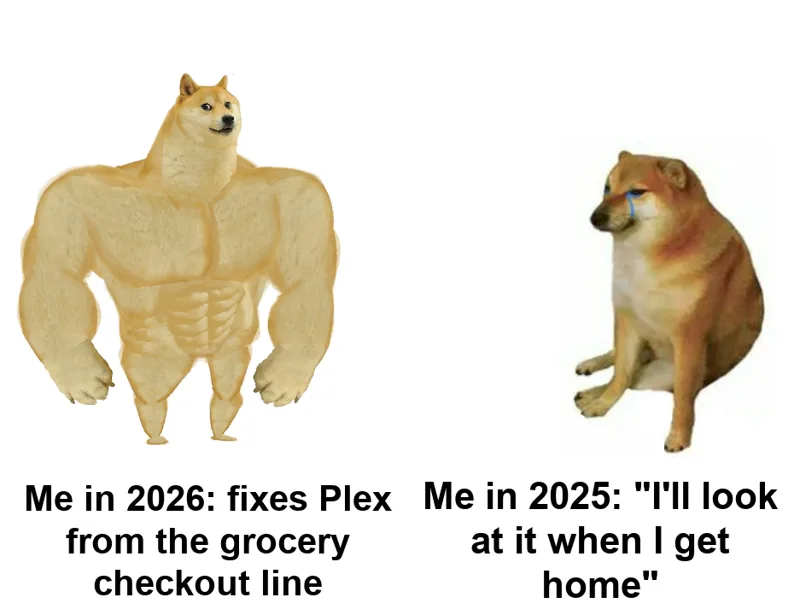
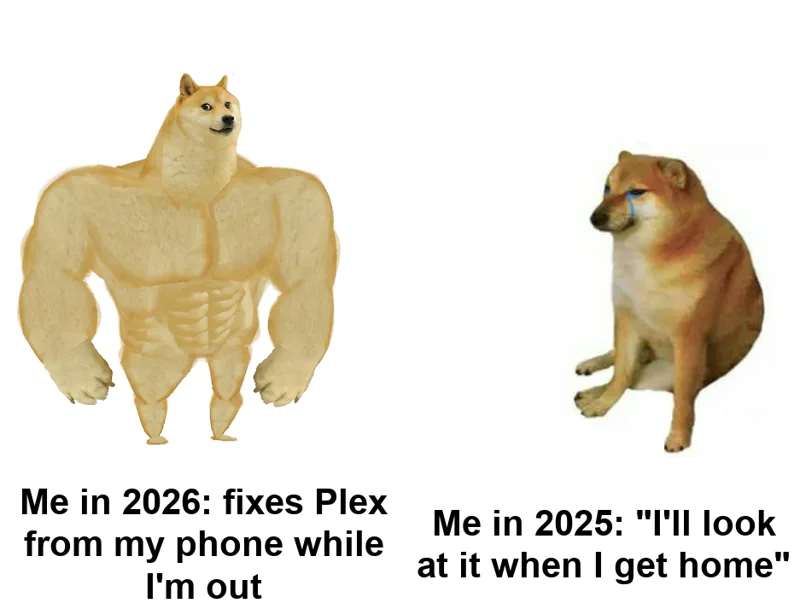
fix: Add evaluation notes and fix meme captions in dev setup post

Changed region(s): [[0.5, 0.7724, 1.0, 0.9886], [0.0, 0.7724, 0.5, 0.9886]]

diff --git a/src/content/blog/my-development-setup-2026.md b/src/content/blog/my-development-setup-2026.md
@@ -75,6 +75,8 @@ iTerm never broke. I switched for two reasons. Ghostty's config is one plain tex
 
 A normal session is one Ghostty window cut into four or five panes, each running a separate [Claude Code](https://code.claude.com/docs) session on a separate job. The screenshot below is a real afternoon: orphaned OpenTofu state, a Last.fm replacement, my social post scheduler, a music server's web UI, and this post. I glance across them like a row of monitors.
 
+I don't run tmux on the Mac. Ghostty's native splits do what I need with nothing extra to configure.
+
 That's also why I don't use the Claude Code extension for VS Code. It gives me one Claude inside one editor. Ghostty gives me as many as I want.
 
 ![A Ghostty window split into five panes, each running its own Claude Code session on a different task, with a status line under each pane naming the task](/images/blog/my-development-setup-2026/ghostty-claude-code-splits.webp)
@@ -102,7 +104,7 @@ shell-integration-features = no-cursor,ssh-env,ssh-terminfo
 
 ### Plain zsh: startup from 108 ms to 46 ms
 
-I noticed lag. Opening a new tab had a small but real delay, and I open a lot of tabs. So I audited it: startup was around 108 ms, mostly [Oh My Zsh](https://ohmyz.sh/) plus a handful of tools spawning a subprocess every time a shell started. After the cleanup it was 46 ms, and new tabs feel instant.
+I noticed lag. Opening a new tab had a small but real delay, and I open a lot of tabs. So I audited it: startup was around 108 ms, mostly [Oh My Zsh](https://ohmyz.sh/) plus a handful of tools spawning a subprocess every time a shell started. After the cleanup it was 46 ms, and new tabs feel instant. That's warm-cache `.zshrc` load time in a real pty, timed with zprof and per-section timers under `env -i`, so my agent's environment didn't skew it. The first numbers lied, too: a cold completion cache made `compinit` look like 460 ms. Warm, it's 7 ms.
 
 What I learned from measuring: **aliases are free, subprocesses aren't.** Dozens of aliases cost nothing measurable. Every `eval "$(some-tool init)"` did.
 
@@ -201,9 +203,13 @@ mcd() { mkdir -p "$1" && cd "$1"; }   # make a directory and cd into it
 
 For everything else, [zoxide](https://github.com/ajeetdsouza/zoxide) handles the jumping: `z blog` takes me to this repo from anywhere.
 
+The one thing I added back is [atuin](https://atuin.sh/) for Ctrl-R, local only with no sync. It isn't free. It adds about 14 ms before every command, and its init quietly rewired zsh-autosuggestions to spawn `atuin search` on every keystroke, which I switched back to plain history. Searchable history with directory, exit code, and duration is worth 14 ms to me. The keystroke thing wasn't.
+
 ### Starship, because Powerlevel10k is on life support
 
-I loved [Powerlevel10k](https://github.com/romkatv/powerlevel10k), but its README has said "NO NEW FEATURES ARE IN THE WORKS" and "MOST BUGS WILL GO UNFIXED" since 2024. I don't want the thing I look at thousands of times a day to be one macOS update away from breaking. [Starship](https://starship.rs/) is maintained, works in any shell, and is one TOML file.
+I loved [Powerlevel10k](https://github.com/romkatv/powerlevel10k), but its README has said "NO NEW FEATURES ARE IN THE WORKS" and "MOST BUGS WILL GO UNFIXED" since 2024. I don't want the thing I look at thousands of times a day to be one macOS update away from breaking. I looked at [Oh My Posh](https://ohmyposh.dev/) (best looking, my runner-up), [Pure](https://github.com/sindresorhus/pure) (fast, almost no segments), Spaceship, and just staying on p10k. I picked [Starship](https://starship.rs/) because it's the one I'd bet is still maintained in five years: works in any shell, one TOML file.
+
+It costs me something. p10k is still faster in git repos. It keeps a background daemon that already knows the repo state, and it draws a cached prompt before `.zshrc` finishes loading. Starship runs every module synchronously and waits for all of them.
 
 I use the catppuccin-powerline preset with two things turned off: git status counts and language versions. Out of the box they ran `git status` and `node --version` before every prompt. When I want the details, I type `gs`.
 
@@ -410,7 +416,7 @@ When an AI helps you write, the drafts drift toward _generic_. Em dashes everywh
 <!-- vale JoeKarlsson.BannedOpenings = YES -->
 <!-- vale Slop.Vocabulary = YES -->
 
-![Clown Applying Makeup meme in four panels: "Let AI help write my blog posts," "Get annoyed by all the em dashes," "Write 137 lint rules against AI slop," and, in full clown makeup, "My own drafts fail the rules"](/images/blog/my-development-setup-2026/clown-makeup-ai-slop-linters.webp)
+![Clown Applying Makeup meme in four panels: "Let AI help write my blog posts," "Get annoyed by all the em dashes," "Write 137 lint rules against AI slop," and, in full clown makeup, "Turn off the rules that flag my own voice"](/images/blog/my-development-setup-2026/clown-makeup-ai-slop-linters.webp)
 
 A [LanguageTool](https://languagetool.org/) server in my homelab handles grammar without sending drafts anywhere. And the part that matters: **agents run the same checks.** The linters run in the editor, before commits, and in CI, so the rules apply whether I wrote the sentence or Claude did.
 
@@ -455,7 +461,7 @@ Claude Code  --ssh-->  Plex, Home Assistant, Proxmox nodes, NAS ...
 
 I run a [Plex](https://www.plex.tv/) server for friends and family, which makes me their on-call support whether I like it or not. When someone texts me that Plex is broken and I'm out, I open Termius, tell Claude what they told me, and let it dig through logs and fix it while I keep doing whatever I was doing. A push notification tells me when it's done. Mosh is what makes it work on a phone: elevators, Wi-Fi to cell, a locked screen, and it picks right back up.
 
-![Buff Doge vs. Cheems meme: Buff Doge labeled "Me in 2026: fixes Plex from the grocery checkout line" next to a crying Cheems labeled "Me in 2025: I'll look at it when I get home"](/images/blog/my-development-setup-2026/buff-doge-cheems-plex-on-call.webp)
+![Buff Doge vs. Cheems meme: Buff Doge labeled "Me in 2026: fixes Plex from my phone while I'm out" next to a crying Cheems labeled "Me in 2025: I'll look at it when I get home"](/images/blog/my-development-setup-2026/buff-doge-cheems-plex-on-call.webp)
 
 The container updates itself every Sunday, Claude Code and dotfiles included. It's managed by OpenTofu like the rest of the lab, which I covered in [moving the whole homelab into OpenTofu](/blog/opentofu-proxmox-immutable-homelab/).
 
@@ -559,7 +565,7 @@ mode = "symlink"
 
 </details>
 
-A new Mac is one clone and `install.sh`, which is now a short bootstrap: install Homebrew and chezmoi, then hand off to `chezmoi init`. `bin/doctor` keeps it honest afterward. As I write this, it's failing on Brewfile drift, which is the point.
+A new Mac is one clone and `install.sh`, which is now a short bootstrap: install Homebrew and chezmoi, then hand off to `chezmoi init`. `bin/doctor` keeps it honest afterward.
 
 ## What I'd keep and what's still broken
 
@@ -570,6 +576,5 @@ Still broken or missing:
 - **Worktrees have overhead.** Every one needs its own `npm install`, dev servers fight over ports, and merge conflicts still land on me.
 - **Hooks are pattern lists, not a sandbox.** They catch the mistakes agents make in practice, and anything the list doesn't anticipate gets through.
 - **Local models aren't good enough for coding yet**, at least not on a 16 GB card shared with Plex and photo processing.
-- **`bin/doctor` is failing right now** on Brewfile drift.
 
 Next on my list: testing one of the bigger Qwen3.8 models on real coding work, and getting these dotfiles running cleanly on more than macOS and Debian.
